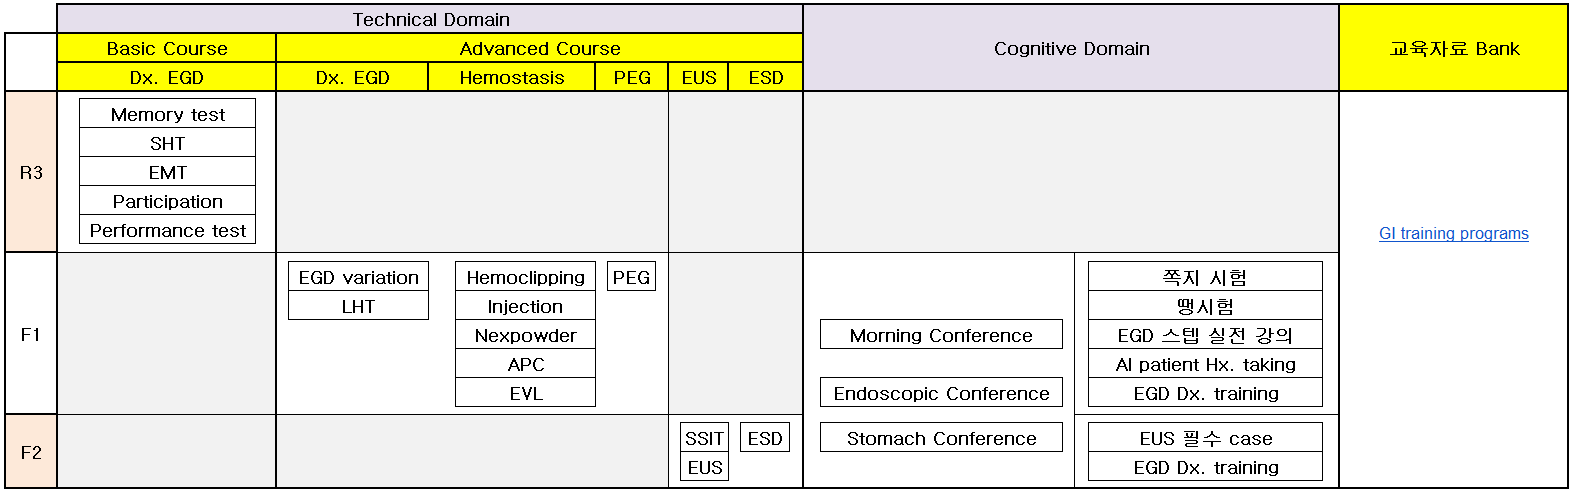
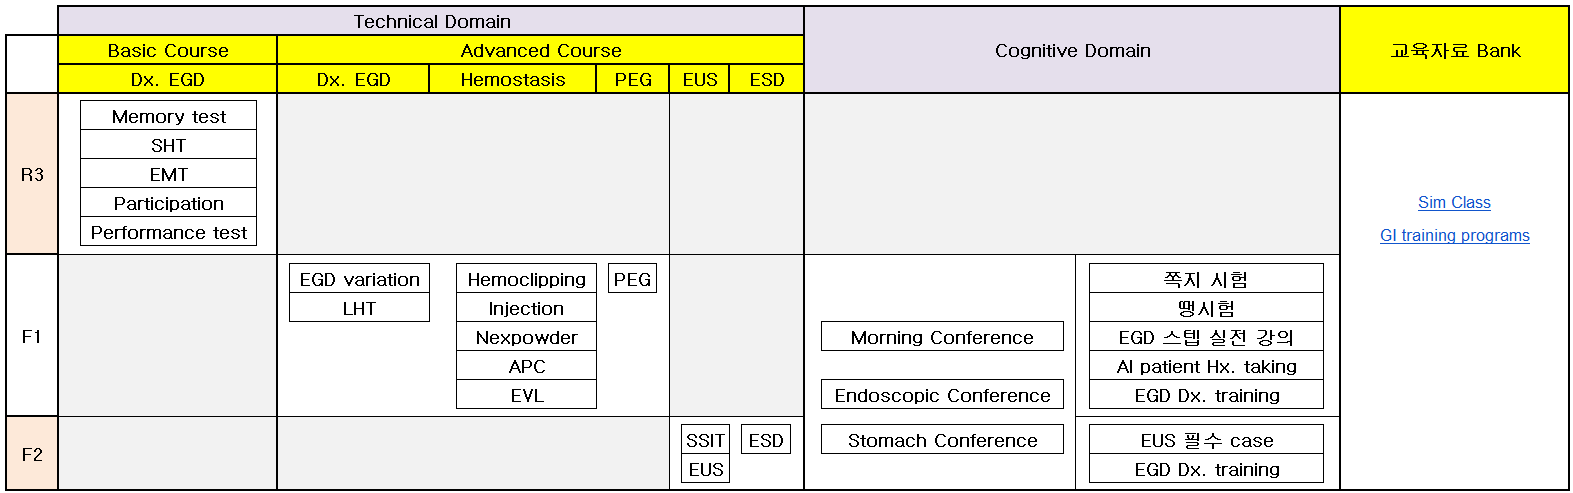
ㅇ

diff --git a/pages/0 Home.py b/pages/0 Home.py
@@ -17,10 +17,11 @@ if st.session_state.get('logged_in', False):  # 로그인 상태 확인
         st.markdown(
             '''
                 ---------------------------------------------------------------------------------------------------------------------------------------------------------
-                1. 소화기 내시경 교육 동영상은 서울아산병원 시뮬레이션 센터 [Sim Class](https://edu.amc.seoul.kr/)에서 시청할 수 있습니다.
-                    * ID와 PW는 각자 사번(ex: D240000)으로 설정되어 있습니다. 로그인 후 반드시 ★개인정보수정(e-mail 주소, 핸드폰번호, 영문명 등)★ 부탁드립니다. 
+                1. 소화기 내시경 교육 동영상은 서울아산병원 시뮬레이션 센터 [Sim Class](https://edu.amc.seoul.kr/)와 GI training programs (https://gi-training.streamlit.app/)에서 시청할 수 있습니다.
+                    * Sim Class ID와 PW는 각자 사번(ex: D240000)으로 설정되어 있습니다. 로그인 후 반드시 ★개인정보수정(e-mail 주소, 핸드폰번호, 영문명 등)★ 부탁드립니다. 
                     * 로그인 및 Sim Class 관련 문의는 시뮬레이션센터 류수지(T.1018) 에게 아산웍스 또는 유선으로 문의바랍니다.
                     * 필요한 동영상을 청취하면 자동으로 출석 처리 됩니다.
+                    * GI training programs에 로그인 하기 위해서는 이메일 주소를 ID로 글자 숫자 섞어서 8자 이상의 PW를 이진혁 교수에게 메일로 보내 허락을 받고 등록한 후 들어갈 수 있습니다.
                 1. 소화기 전임의 공통 프로그램 페이지에 NBI 리뷰 논문 링크를 적어 놓았습니다. 반드시 공부하기 바랍니다.
                 1. 전임의 외래 참관 (2024): 새로 추가, 소화기 전임의 1년차에게만 해당하는 교육 프로그램입니다.
                     * 최소 1달에 1회 / 1년에 12회 참관합니다.
